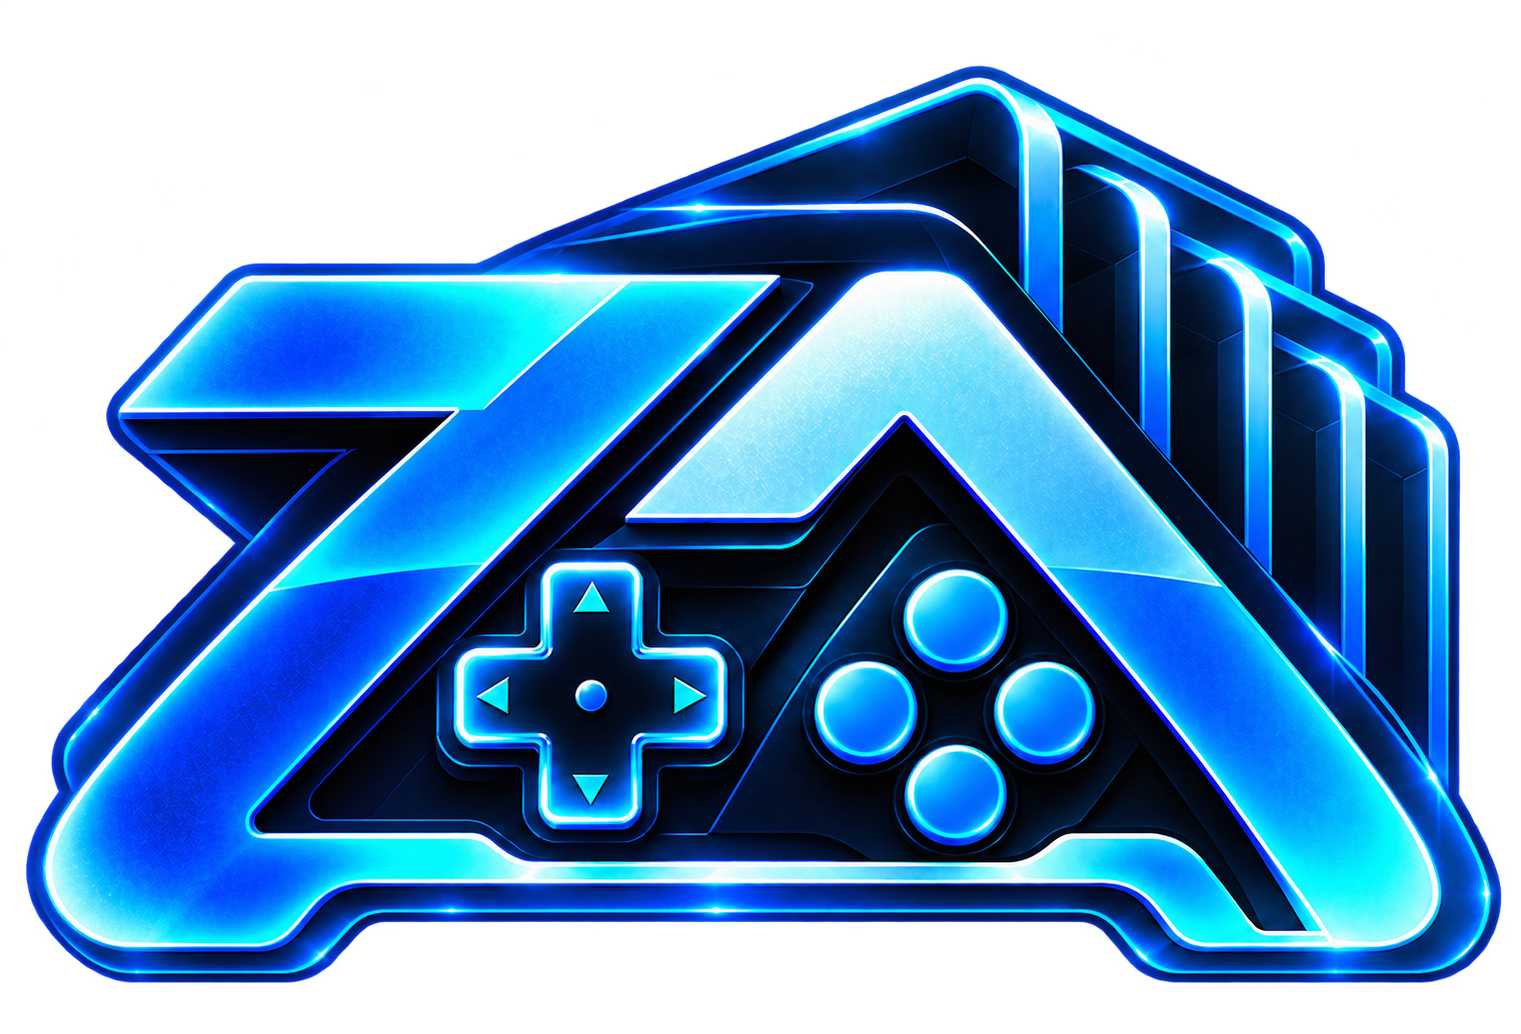
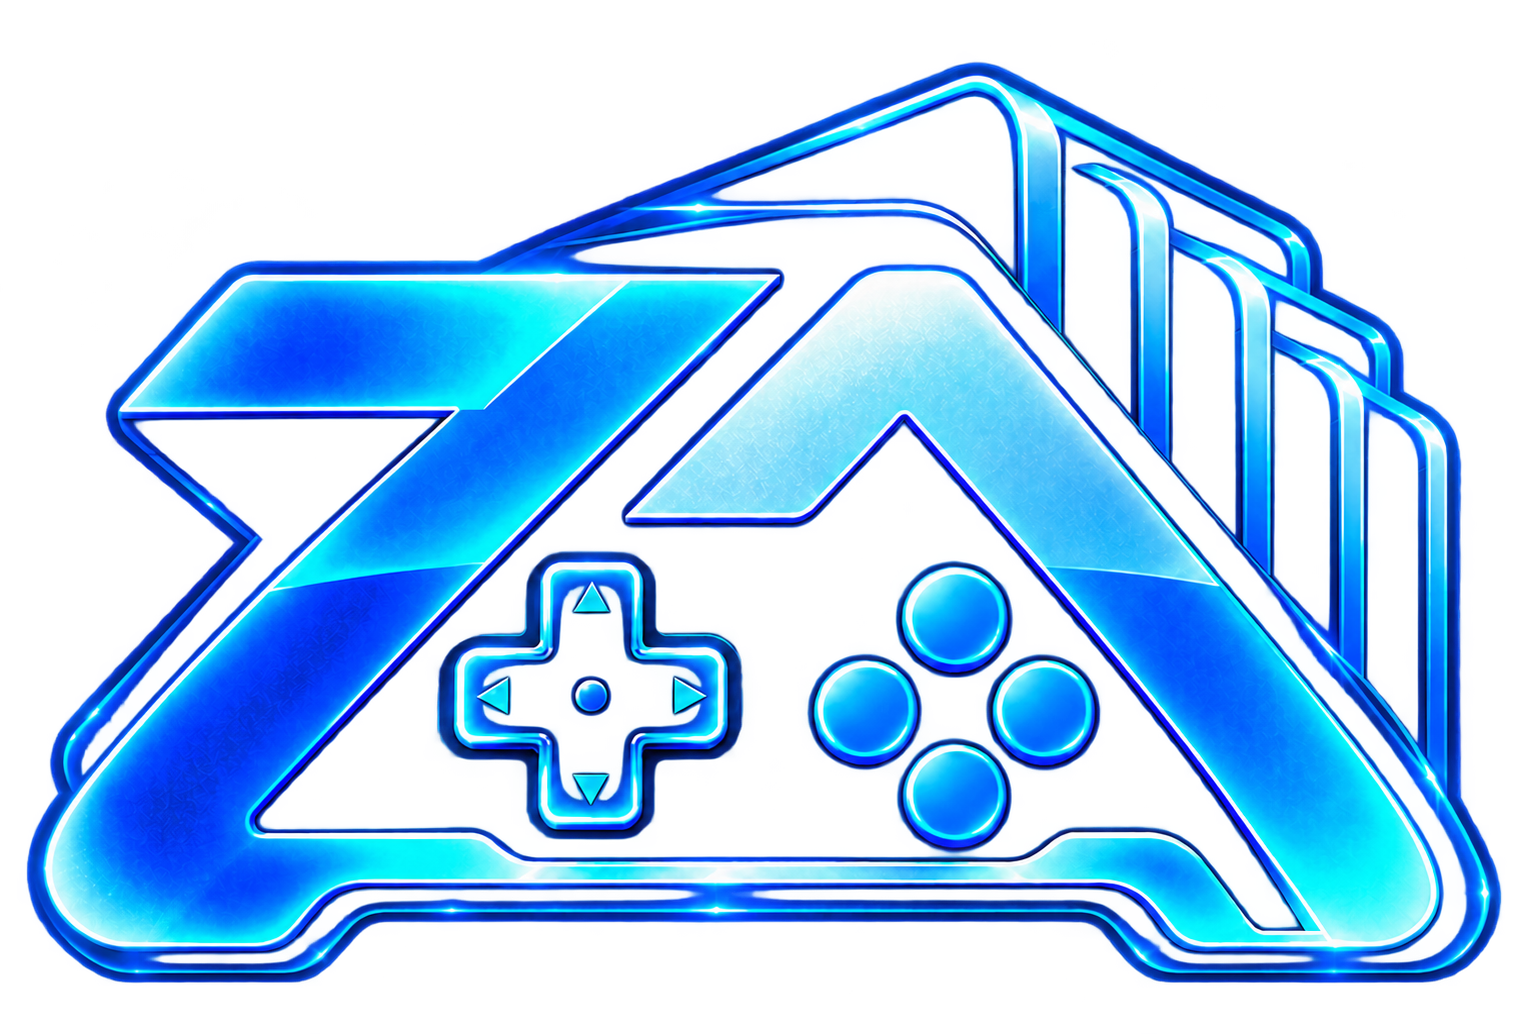
fix(branding): double emblem size and clear dark internal backing

diff --git a/frontend/e2e/project-brand.spec.ts b/frontend/e2e/project-brand.spec.ts
@@ -84,7 +84,16 @@ for (const theme of ["dark", "light"] as const) {
           width < 600 ? /\bxs\b/ : /./,
         );
         await expect(navigationMark).toBeVisible();
-        if (width < 600) await expect(navigationWordmark).toBeHidden();
+        const markBox = await navigationMark.boundingBox();
+        expect(markBox!.width).toBe(128);
+        expect(markBox!.height).toBe(88);
+        const headerBox = await page.locator(".r-v2-nav-bar").boundingBox();
+        expect(markBox!.y).toBeGreaterThanOrEqual(headerBox!.y);
+        expect(markBox!.y + markBox!.height).toBeLessThanOrEqual(
+          headerBox!.y + headerBox!.height,
+        );
+        if (width < 600 || (width >= 960 && width < 1280))
+          await expect(navigationWordmark).toBeHidden();
         else await expect(navigationWordmark).toBeVisible();
         const box = await home.boundingBox();
         expect(box!.height).toBeGreaterThanOrEqual(44);
@@ -261,15 +270,23 @@ test("runtime logo assets retain transparent backgrounds", async ({ page }) => {
         canvas.height,
       ).data;
       let transparent = 0;
+      let darkOpaque = 0;
       for (let i = 3; i < pixels.length; i += 4) {
         if (pixels[i]! < 10) transparent++;
+        if (
+          pixels[i]! > 240 &&
+          Math.max(pixels[i - 3]!, pixels[i - 2]!, pixels[i - 1]!) < 40
+        )
+          darkOpaque++;
       }
       return {
         corner: pixels[3],
         fraction: transparent / (canvas.width * canvas.height),
+        darkFraction: darkOpaque / (canvas.width * canvas.height),
       };
     }, asset);
     expect(alpha.corner).toBeLessThan(10);
+    expect(alpha.darkFraction).toBeLessThan(0.01);
     expect(alpha.fraction).toBeGreaterThan(0.15);
     expect(alpha.fraction).toBeLessThan(0.95);
   }

diff --git a/frontend/src/v2/components/shared/ProjectBrand.vue b/frontend/src/v2/components/shared/ProjectBrand.vue
@@ -18,8 +18,8 @@ defineProps<Props>();
         class="project-brand__mark"
         src="/assets/zockarchive/mark-header.webp"
         alt=""
-        width="64"
-        height="44"
+        width="128"
+        height="88"
       />
       <span class="project-brand__name">ZockArchive</span>
     </template>
@@ -54,11 +54,11 @@ defineProps<Props>();
 }
 .project-brand--navigation {
   gap: var(--r-space-2);
-  height: var(--r-touch-target);
+  height: 88px;
 }
 .project-brand--navigation .project-brand__mark {
-  width: 64px;
-  height: 44px;
+  width: 128px;
+  height: 88px;
 }
 .project-brand__name {
   color: var(--r-color-fg);
@@ -71,10 +71,8 @@ defineProps<Props>();
   width: 148px;
   height: auto;
 }
-@media (min-width: 960px) and (max-width: 1279px) {
-  .project-brand__name {
-    font-size: 18px;
-  }
+html[data-bp~="md-and-up"][data-bp~="md-and-down"] .project-brand__name {
+  display: none;
 }
 html[data-bp~="xs"] .project-brand__name {
   display: none;

diff --git a/frontend/src/v2/styles/tokens.css b/frontend/src/v2/styles/tokens.css
@@ -123,7 +123,7 @@
   --r-motion-ease-back: cubic-bezier(0.34, 1.56, 0.64, 1);
   --r-focus-ring-width: 2px;
   --r-focus-ring-offset: 3px;
-  --r-nav-h: 58px;
+  --r-nav-h: 104px;
   --r-bottom-nav-h: 58px;
   --r-bottom-nav-max-w: 480px;
   --r-touch-target: 44px;

diff --git a/frontend/src/v2/tokens/index.ts b/frontend/src/v2/tokens/index.ts
@@ -127,7 +127,7 @@ export const zIndex = {
 } as const;
 
 export const layout = {
-  navHeight: "58px",
+  navHeight: "104px",
   bottomNavHeight: "58px",
   bottomNavMaxWidth: "480px",
   touchTarget: "44px",

diff --git a/.planning/quick/261028-bt1-polish-zockarchive-branding-with-transpa/261028-bt1-SUMMARY.md b/.planning/quick/261028-bt1-polish-zockarchive-branding-with-transpa/261028-bt1-SUMMARY.md
@@ -41,3 +41,9 @@ ZockArchive wording and arrangement; remove black/navy rectangle, floor/reflecti
 and tiny tagline; true transparent negative space; crisp edges and subtle glow.
 Icon prompt: keep only the same ZA gamepad emblem, remove all text; transparent
 background without floor/reflection; preserve geometry and metallic blue finish.
+
+## Approved size and internal transparency refinement
+
+The navigation emblem is 128 by 88 px, twice the previous 64 by 44 px. The shared navigation-height token is 104 px so fixed-header offsets and content remain aligned. Medium desktops show the emblem without the native name to preserve the centered navigation pill. Updated transparent masters remove the dark internal backing as well as the exterior background; the navigation derivative is 256 px wide for high-density displays. Browser checks enforce the doubled dimensions, header containment, responsive navigation separation and a negligible opaque-dark pixel fraction.
+
+Validation: typecheck passed; 152 test files and 1,707 tests passed; production build passed; all six Chromium brand checks passed in light/dark themes, 320 px through 4K, including synthetic controller input and internal transparency. Browser screenshots were inspected in both themes. Physical-controller UAT remains manual.

diff --git a/docs/FRONTEND_ARCHITECTURE.md b/docs/FRONTEND_ARCHITECTURE.md
@@ -267,10 +267,11 @@ tooling and browser startup can safely share it.
 
 The domain shared composite `components/shared/ProjectBrand.vue` presents the
 transparent artwork through auth and about variants. Small WebP derivatives
-retain actual alpha, with transparent masters preserved as
-overlay-transparent.png and mark-transparent.png. Navigation pairs one emblem
-with a 64 by 44 px emblem and native theme-colored ZockArchive text (22 px, compact 18 px on medium desktops) for header legibility; xs keeps
-only the emblem. It never places a complete logo beside another copy of its
+retain actual alpha in the exterior and internal dark negative spaces. The
+transparent masters are overlay-transparent.png and mark-transparent.png.
+Navigation pairs a 128 by 88 px emblem with native 22 px theme-colored
+ZockArchive text in a 104 px navigation bar. Extra-small screens and medium
+desktops keep only the emblem. It never places a complete logo beside another copy of its
 emblem. AuthCard owns the shared login/register/reset/setup
 frame; the labelled Home link hides redundant brand artwork from assistive
 technology. The pairing QR remains unmodified, with
